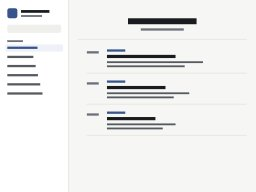
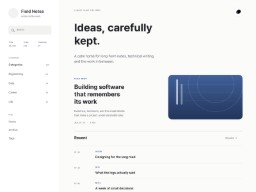
feat: generate the thumbnails from the new drawing
- seed the GIF palette with the skin's tokens and the featured gradient
  before scanning: filling the table row by row spent all 256 slots on the
  rail's greys and mapped the blue card to rgb(80,81,84), a neutral, so the
  one colour the skin spends was leaving the size most people see
- draw the theme control as a crescent cut from a disc; as an arc it came
  out a broken ring and read as a loading spinner
- lift the list so the third row's title clears the canvas instead of
  leaving a date and a category label hanging at the cut

Closes #112

diff --git a/scripts/make-previews.html b/scripts/make-previews.html
@@ -223,13 +223,18 @@
     // The theme control is an icon, not a labelled switch: the skin never puts
     // the word "Light" on the page.
     fillRound(x, right - 56, 48, 56, 56, 28, C.surface, C.line, 2);
+    // A crescent cut out of a disc. Drawn as an arc first, it came out as a
+    // broken ring and read as a loading spinner.
     x.save();
     x.translate(right - 28, 76);
-    x.strokeStyle = C.muted;
-    x.lineWidth = 2.4;
+    x.fillStyle = C.muted;
     x.beginPath();
-    x.arc(2, -2, 11, 2.4, 6.0);
-    x.stroke();
+    x.arc(0, 0, 12, 0, Math.PI * 2);
+    x.fill();
+    x.globalCompositeOperation = "destination-out";
+    x.beginPath();
+    x.arc(5.5, -4.5, 11, 0, Math.PI * 2);
+    x.fill();
     x.restore();
 
     // Introduction cover: the small line, the headline, the line under it.
@@ -261,7 +266,9 @@
     featureArt(x, 1052, 468, 464, 278);
 
     // List cover.
-    const listTop = 852;
+    // High enough that the third row's title clears the bottom edge. Lower, the
+    // canvas cut it and left a date and a category label hanging there.
+    const listTop = 820;
     rule(x, left, listTop, right, listTop, C.lineStrong);
     text(x, "Recent", left, listTop + 30, 24, C.ink, 700);
     text(x, "All posts  →", right - 108, listTop + 36, 14, C.nav);
@@ -277,8 +284,8 @@
       text(x, rows[i][0], left, y + 3, 13, C.faint, 400, true);
       text(x, rows[i][1], 596, y, 12, C.accent, 600, true);
       text(x, rows[i][2], 596, y + 30, 20, C.ink, 600);
-      if (i < rows.length - 1) rule(x, 596, y + 80, right, y + 80, C.line);
-      y += 102;
+      if (i < rows.length - 1) rule(x, 596, y + 78, right, y + 78, C.line);
+      y += 98;
     }
 
     return canvas;
@@ -304,6 +311,13 @@
   // entry after that. A fixed colour cube would be shorter, but the featured
   // image is a gradient and a cube bands it visibly at this size.
   //
+  // The table is seeded before the scan starts, and that is not a refinement.
+  // Scanning row by row from the top fills all 256 slots with the rail's and the
+  // paper's greys before it ever reaches the featured image, so the blue was
+  // mapped to its nearest neighbour — measured, `rgb(50,74,121)` came out
+  // `rgb(80,81,84)`, a neutral. The one colour the skin spends was leaving the
+  // thumbnail entirely, in the size most people see.
+  //
   // Codes are written at a fixed nine bits and the dictionary is cleared before
   // it can ever grow past that, so every pixel is emitted literally. The result
   // is a larger file than a real LZW stream would be and a completely ordinary
@@ -313,6 +327,19 @@
 
     const palette = [];
     const seen = new Map();
+    const add = ([r, g, b]) => {
+      const key = (r << 16) | (g << 8) | b;
+      if (seen.has(key) || palette.length >= 256) return;
+      seen.set(key, palette.length);
+      palette.push([r, g, b]);
+    };
+    const fromHex = (hex) => [1, 3, 5].map((i) => parseInt(hex.slice(i, i + 2), 16));
+    const mix = (a, b, t) => a.map((v, i) => Math.round(v + (b[i] - v) * t));
+    for (const hex of Object.values(TOKENS)) add(fromHex(hex));
+    const top = fromHex("#41609a");
+    const bottom = fromHex("#22355a");
+    for (let i = 0; i <= 24; i += 1) add(mix(top, bottom, i / 24));
+
     const indexes = new Uint8Array(width * height);
     for (let i = 0; i < width * height; i += 1) {
       const r = data[i * 4], g = data[i * 4 + 1], b = data[i * 4 + 2];
